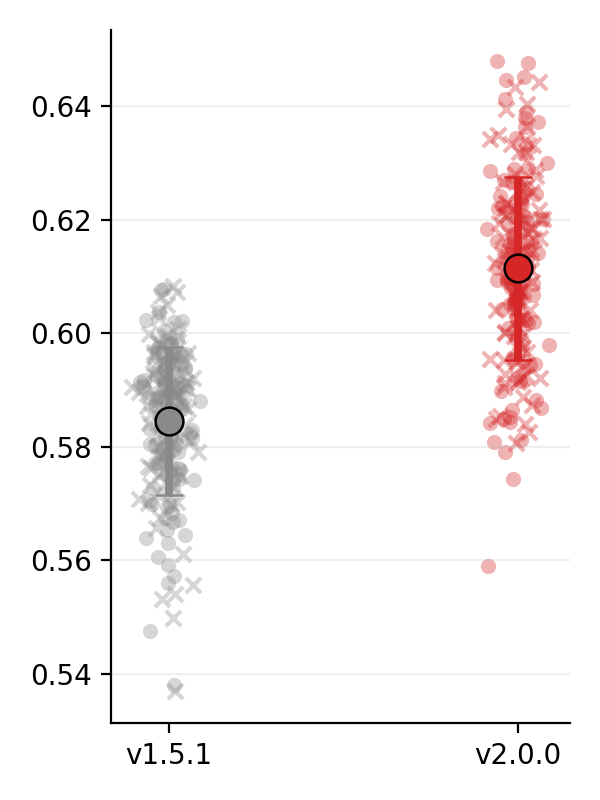
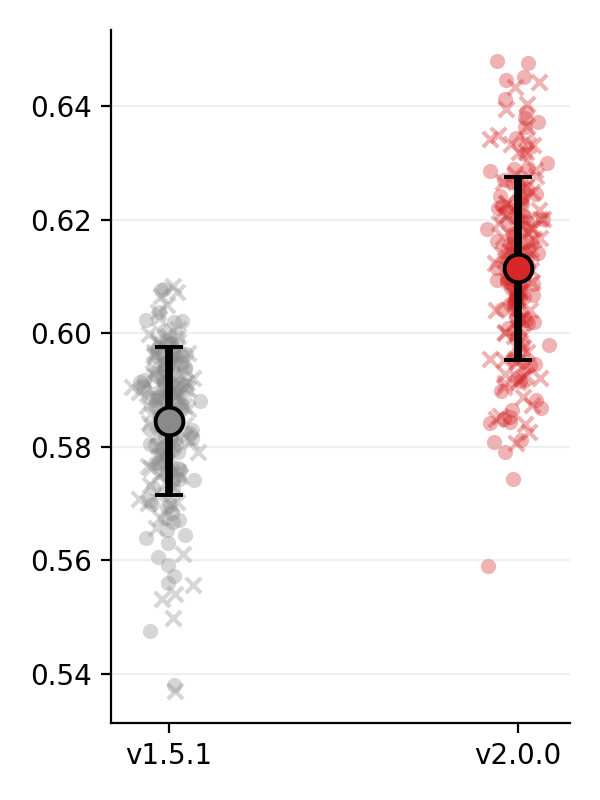
cohen's d and prettier plots

Changed region(s): [[0.84, 0.2188, 0.9, 0.4688], [0.24, 0.4062, 0.3, 0.625]]

diff --git a/v1-v2_comp/analysis.py b/v1-v2_comp/analysis.py
@@ -11,7 +11,6 @@ import pandas as pd
 import statsmodels.formula.api as smf
 from statsmodels.stats.anova import AnovaRM
 import pyvista as pv
-from datetime import datetime
 import matplotlib as mpl
 mpl.rcParams['axes.spines.right'] = False
 mpl.rcParams['axes.spines.top'] = False
@@ -57,12 +56,10 @@ class Logger:
 
 
 # Initialize logger
-timestamp = datetime.now().strftime("%Y%m%d_%H%M%S")
-log_file = OUTDIR / f"analysis_log_{timestamp}.txt"
+log_file = OUTDIR / f"analysis_log.txt"
 logger = Logger(log_file)
 sys.stdout = logger
 
-print(f"Analysis started at {datetime.now().strftime('%Y-%m-%d %H:%M:%S')}")
 print(f"Log file: {log_file}")
 print("="*60)
 
@@ -328,8 +325,8 @@ def scatter_block(df_sub, value_col, labels, group_cols, out_png):
             markersize=10,               # large mean dot
             markerfacecolor=c,
             markeredgecolor="black",
-            markeredgewidth=0.9,
-            ecolor=c,
+            markeredgewidth=1.4,
+            ecolor="black",
             elinewidth=2.8,              # thick -> visible
             capsize=5,
             capthick=2.8,
@@ -436,6 +433,87 @@ def run_rm_version_only(df_all, measure_name, subject_col="subject_id"):
         mdf = md.fit(method="lbfgs", reml=True, maxiter=200, disp=False)
         print(mdf.summary())
 
+import numpy as np
+import pandas as pd
+
+def run_cohens_d_version_only(df_all, measure_name, subject_col="subject_id"):
+    """
+    Compute Cohen's d for paired version comparison.
+
+    Uses subject-level means per version, then computes paired Cohen's dz:
+        d_z = mean(diff) / sd(diff)
+
+    Assumes exactly two version levels.
+    """
+    df_m = df_all[df_all["measure"] == measure_name].dropna(subset=["value"]).copy()
+    if df_m.empty:
+        print(f"\n[Cohen's d] {measure_name}: no data")
+        return None
+
+    # Collapse to subject x version means
+    df_cell = (
+        df_m.groupby([subject_col, "version"], dropna=False, as_index=False)["value"]
+            .mean()
+            .rename(columns={"value": "cell_mean"})
+    ).dropna(subset=["cell_mean"])
+
+    ver_levels = sorted(df_cell["version"].unique())
+
+    print(f"\nCohen's d for {measure_name} (paired within-subject version comparison)")
+    print(f"Subjects total: {df_cell[subject_col].nunique()}")
+    print(f"Version levels: {ver_levels}")
+
+    if len(ver_levels) != 2:
+        print(f"[Warning] Cohen's d version comparison expects exactly 2 versions, found {len(ver_levels)}.")
+        return None
+
+    # Wide format: one row per subject, one column per version
+    wide = df_cell.pivot(index=subject_col, columns="version", values="cell_mean")
+
+    # Keep only complete paired subjects
+    wide = wide.dropna(subset=ver_levels)
+    n = len(wide)
+
+    print(f"Complete paired subjects: {n}")
+
+    if n < 2:
+        print("Not enough paired subjects to compute Cohen's d.")
+        return None
+
+    v0, v1 = ver_levels
+    diff = wide[v1] - wide[v0]
+
+    mean0 = wide[v0].mean()
+    mean1 = wide[v1].mean()
+    mean_diff = diff.mean()
+    sd_diff = diff.std(ddof=1)
+
+    if sd_diff == 0:
+        d_z = np.nan
+        print("[Warning] Difference SD is zero; Cohen's dz is undefined.")
+    else:
+        d_z = mean_diff / sd_diff
+
+    result = {
+        "measure": measure_name,
+        "version_0": v0,
+        "version_1": v1,
+        "n": n,
+        "mean_version_0": mean0,
+        "mean_version_1": mean1,
+        "mean_diff": mean_diff,
+        "sd_diff": sd_diff,
+        "cohens_dz": d_z,
+    }
+
+    print(f"{v1} - {v0}")
+    print(f"Mean {v0}: {mean0:.6g}")
+    print(f"Mean {v1}: {mean1:.6g}")
+    print(f"Mean difference: {mean_diff:.6g}")
+    print(f"SD difference: {sd_diff:.6g}")
+    print(f"Cohen's dz: {d_z:.6g}")
+
+    return result
 
 def concat_two_meshes_to_polydata(path_a, path_b):
     """Concatenate two triangle meshes (A then B) into a single PolyData."""
@@ -639,11 +717,11 @@ for dataset in DATASETS:
     # Run statistical tests
     for measure in ["consistency", "identifiability", "cell_quality"]:
         run_rm_version_only(df_all, measure_name=measure, subject_col="subject_id")
+        run_cohens_d_version_only(df_all, measure_name=measure, subject_col="subject_id")
 
 print(f"\n{'='*60}")
 print("All datasets processed successfully!")
 print(f"{'='*60}")
-print(f"Analysis completed at {datetime.now().strftime('%Y-%m-%d %H:%M:%S')}")
 
 # Close logger
 logger.close()

diff --git a/v1-v2_comp/TLEclass.py b/v1-v2_comp/TLEclass.py
@@ -155,6 +155,42 @@ def _paired_permutation_pvalue(
     p = (1.0 + float(extreme)) / (1.0 + float(n_perm))
     return float(max(min(p, 1.0), 0.0))
 
+def cohens_d_paired(a, b):
+    """
+    Compute paired Cohen's d (dz).
+
+    Parameters
+    ----------
+    a, b : array-like
+        Paired observations (same length).
+
+    Returns
+    -------
+    d_z : float
+        Cohen's d for paired samples (mean difference / SD of differences).
+    """
+    a = np.asarray(a, dtype=float)
+    b = np.asarray(b, dtype=float)
+
+    if a.shape != b.shape:
+        raise ValueError("Inputs must have the same shape for paired comparison.")
+
+    # Drop NaNs pairwise
+    mask = np.isfinite(a) & np.isfinite(b)
+    a = a[mask]
+    b = b[mask]
+
+    if len(a) < 2:
+        raise ValueError("Not enough valid paired observations.")
+
+    diff = b - a
+    mean_diff = np.mean(diff)
+    sd_diff = np.std(diff, ddof=1)
+
+    if sd_diff == 0:
+        return np.nan  # undefined
+
+    return mean_diff / sd_diff
 
 def _p_to_stars(p: float) -> str:
     if p < 0.001:
@@ -362,6 +398,7 @@ def main():
                     + 7
                 )
                 p = _paired_permutation_pvalue(a2, b2, n_perm=N_PERMUTATIONS, seed=seed_local, two_sided=True)
+                d = cohens_d_paired(a2,b2)
 
                 rows.append(
                     dict(
@@ -373,13 +410,14 @@ def main():
                         old_mean=float(np.mean(a2)),
                         new_mean=float(np.mean(b2)),
                         diff_mean=float(np.mean(b2 - a2)),
+                        cohens_dz=float(d),
                         p_paired_perm=float(p),
                         n_perm=int(N_PERMUTATIONS),
                         sig=_p_to_stars(p),
                     )
                 )
     if rows:
-        df = pd.DataFrame(rows).sort_values(["metric", "feat", "clf"])
+        df = pd.DataFrame(rows)
         out_csv = os.path.join(args.outdir, "summary_permtest_fixed_feats_test.csv")
         df.to_csv(out_csv, index=False)
         print(f"[WROTE] {out_csv}")
